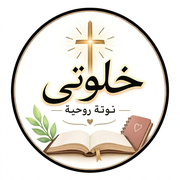
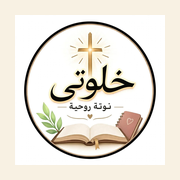
Add files via upload

diff --git a/index.html b/index.html
@@ -13,8 +13,8 @@
   <link href="https://fonts.googleapis.com/css2?family=Amiri:wght@400;700&family=Aref+Ruqaa:wght@400;700&family=Cairo:wght@400;700&family=Noto+Naskh+Arabic:wght@400;700&family=Tajawal:wght@400;700&display=swap" rel="stylesheet">
   <link rel="manifest" href="manifest.json">
   <title>خلوتي - توتة روحية</title>
-  <link rel="icon" type="image/png" sizes="192x192" href="./icon-192.png">
-  <link rel="apple-touch-icon" href="./apple-touch-icon.png">
+  <link rel="icon" type="image/png" sizes="192x192" href="./icon-192.png?v=99">
+  <link rel="apple-touch-icon" href="./apple-touch-icon.png?v=99">
   <style>
 
     /* خطوط محلية أوفلاين */
@@ -328,21 +328,22 @@
     }
 
     .logo {
-      width: 120px;
-      height: 120px;
+      width: 130px;
+      height: 130px;
       border-radius: 50%;
       margin: 0 auto 8px;
-      box-shadow: 0 4px 15px rgba(201, 162, 39, 0.3);
-      overflow: hidden;
-      border: 3px solid var(--gold);
+      box-shadow: 0 4px 15px rgba(201, 162, 39, 0.25);
+      overflow: visible;
+      border: none;
       background: transparent;
     }
 
     .logo img {
       width: 100%;
       height: 100%;
-      object-fit: cover;
+      object-fit: contain;
       display: block;
+      border-radius: 50%;
     }
 
     .date-nav {
@@ -1202,7 +1203,7 @@
     <!-- Header -->
     <div class="header">
       <div class="logo">
-        <img src="logo.png" alt="خلوتي - توتة روحية">
+        <img src="logo.png?v=99" alt="خلوتي - توتة روحية">
       </div>
 
       <div class="date-nav">
@@ -2916,8 +2917,8 @@
       // خطوط PDF مفهومة + رابط جوجل عشان تظهر صح في الطباعة
       const fontLink = 'https://fonts.googleapis.com/css2?family=Amiri:wght@400;700&family=Aref+Ruqaa:wght@400;700&family=Cairo:wght@400;700&family=El+Messiri:wght@400;700&family=Noto+Kufi+Arabic:wght@400;700&family=Noto+Naskh+Arabic:wght@400;700&family=Reem+Kufi:wght@400;700&family=Scheherazade+New:wght@400;700&family=Tajawal:wght@400;700&family=Almarai:wght@400;700&family=IBM+Plex+Sans+Arabic:wght@400;700&display=swap';
       w.document.write(`<!DOCTYPE html><html lang="ar" dir="rtl"><head><meta charset="UTF-8"><title>${title}</title>
-  <link rel="icon" type="image/png" sizes="192x192" href="./icon-192.png">
-  <link rel="apple-touch-icon" href="./apple-touch-icon.png">
+  <link rel="icon" type="image/png" sizes="192x192" href="./icon-192.png?v=99">
+  <link rel="apple-touch-icon" href="./apple-touch-icon.png?v=99">
         <link rel="stylesheet" href="${fontLink}">
         <style>
           @import url('${fontLink}');
@@ -2929,7 +2930,7 @@
           .logo{text-align:center;margin-bottom:12px;}
           img{max-width:90px;border-radius:50%;}
         </style>
-        </head><body><div class="logo"><img src="logo.png" alt=""></div><h1>خلوتي - ${title}</h1><div class="frame">${body}</div>
+        </head><body><div class="logo"><img src="logo.png?v=99" alt=""></div><h1>خلوتي - ${title}</h1><div class="frame">${body}</div>
         <script>setTimeout(function(){window.print();}, 800);<\/script>
         </body></html>`);
       w.document.close();

diff --git a/sw.js b/sw.js
@@ -1,4 +1,4 @@
-const CACHE_NAME = 'khalwati-v53-new-icon';
+const CACHE_NAME = 'khalwati-v54-icon-pad';
 const CORE = [
   './', './index.html', './manifest.json', './sw.js',
   './logo.png', './jesus.jpg', './jesus-prayer-bg.jpg', './hymn.m4a', './sawt-rabina.mp3', './prayer-alarm.mp3',
